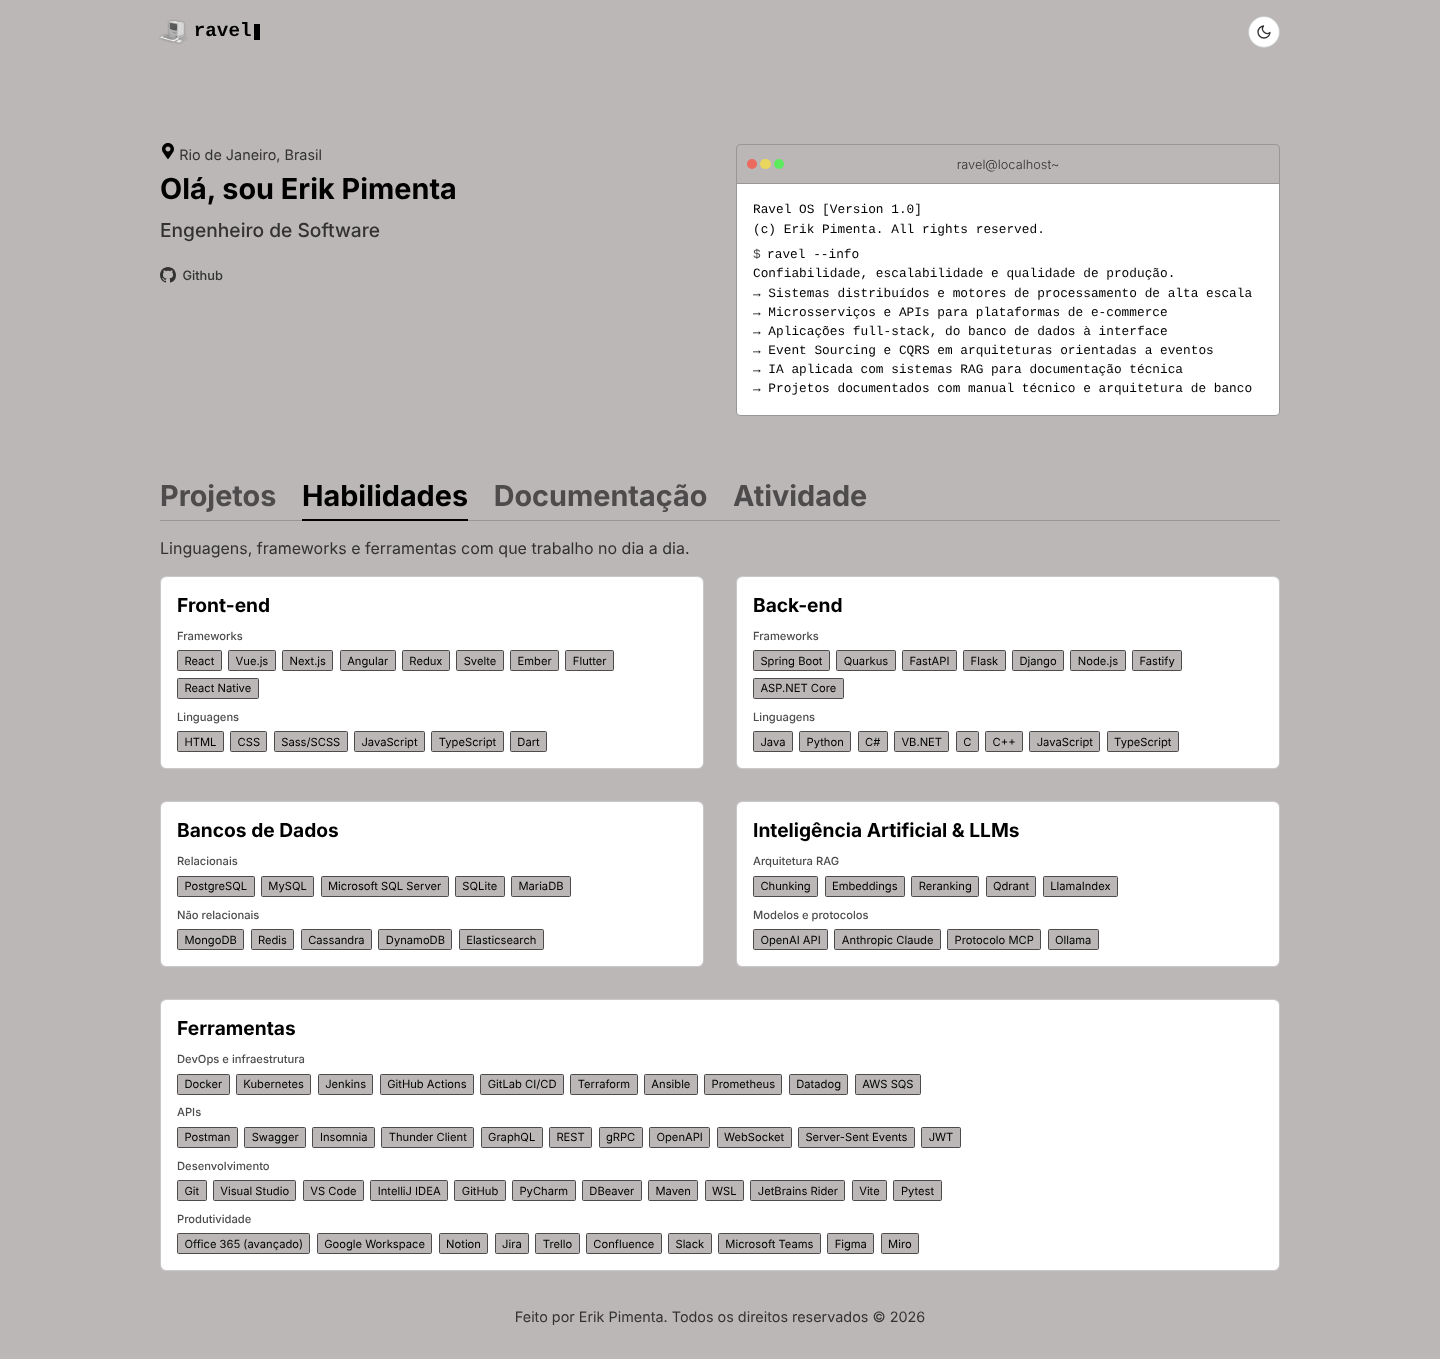
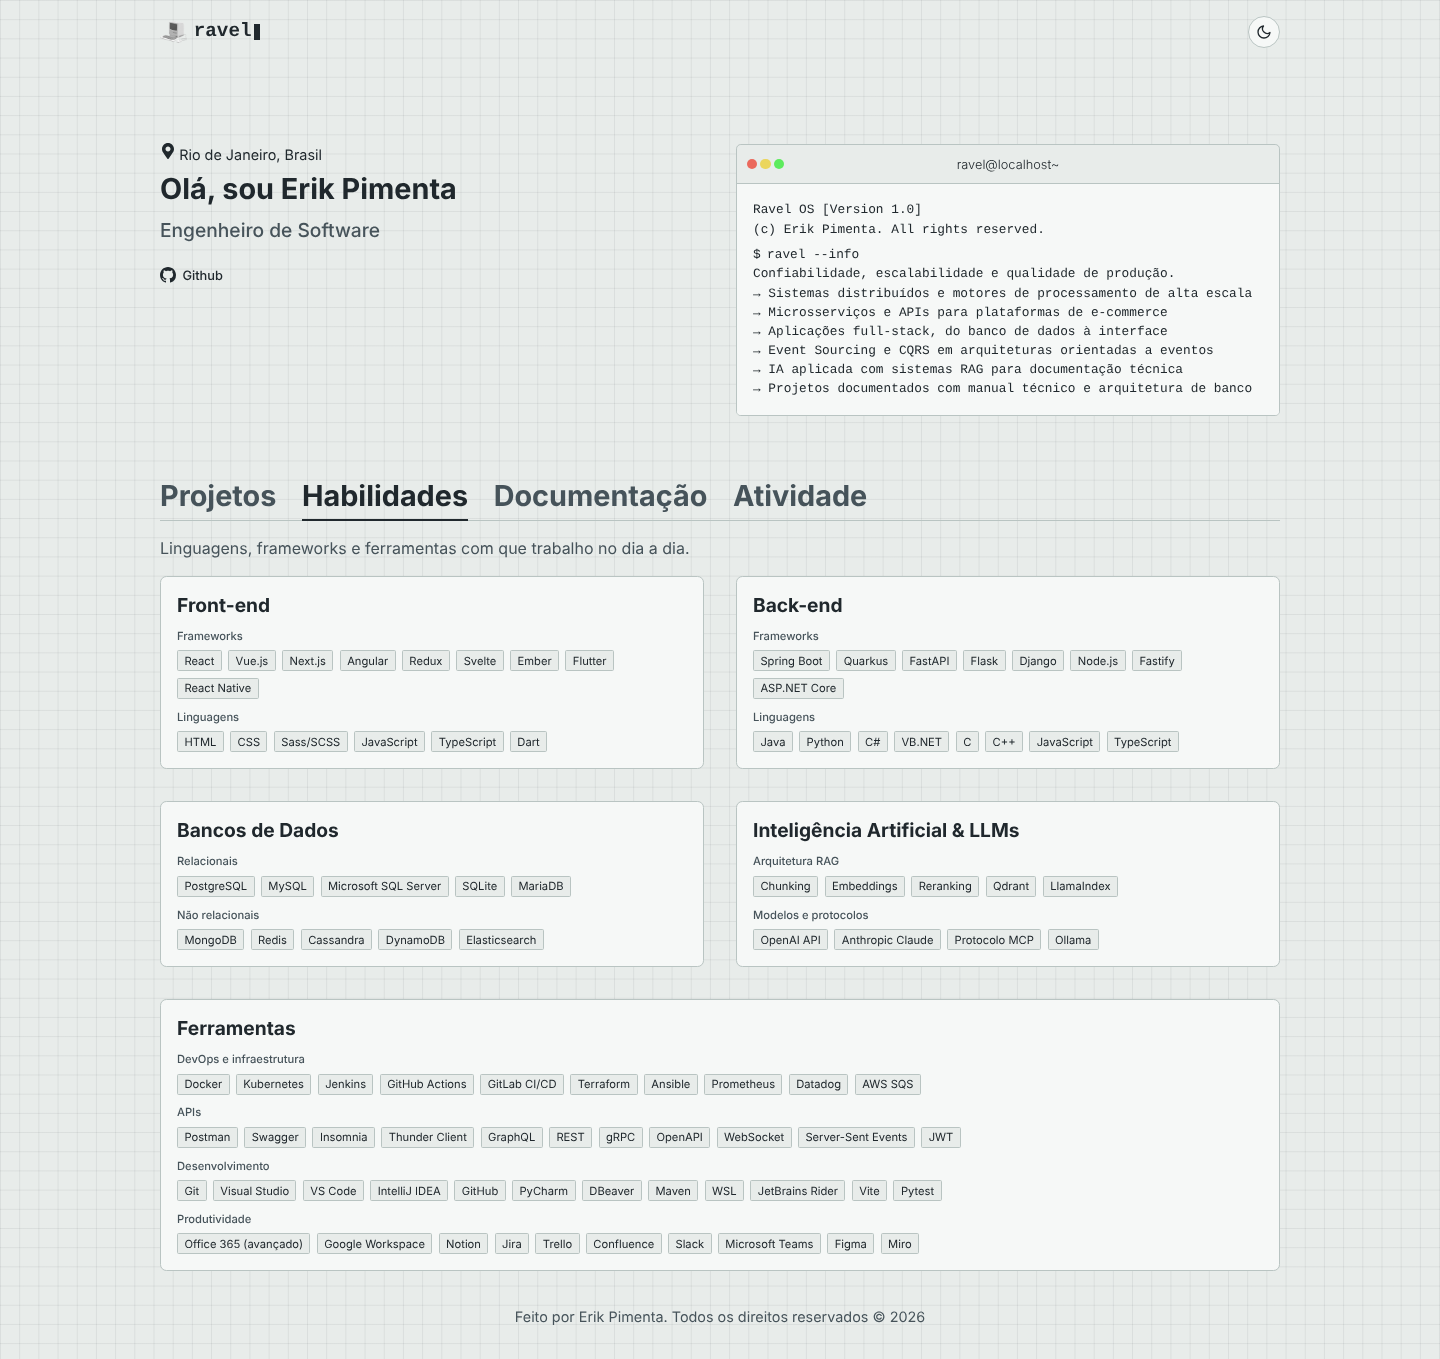
alteração em paleta de cores e correção das miniaturas

diff --git a/css/estilo.css b/css/estilo.css
@@ -32,45 +32,59 @@
 	--fonte-mono: ui-monospace, SFMono-Regular, Menlo, Monaco, Consolas, "Liberation Mono", "Courier New", monospace;
 }
 
-/* Tema claro: ativado pelo botão no canto superior direito */
+/* Tema claro: ativado pelo botão no canto superior direito
+   Papel de desenho técnico: folha com quadriculado de engenharia, texto em grafite
+   e destaques no mesmo grafite, como nos diagramas dos PDFs.
+   Paleta: Papel #E8ECEA · Folha #F6F8F7 · Linha #B9C4C2 · Ardósia #46535A · Grafite #20282D */
 :root[data-tema="claro"] {
 	color-scheme: light;
-	/* Paleta: #FFFFFF · #BAB7B6 · #4D4B4B · #333232 · #000000 */
-	--fundo: #bab7b6;
-	--texto: #000000;
-	--destaque: #000000;
-	--cinza-100: #000000;
-	--cinza-200: #000000;
-	--cinza-300: #333232;
-	--cinza-400: #4d4b4b;
-	--verde-400: #4d4b4b;
-	--borda: rgba(77, 75, 75, 0.3);
-	--cartao: #ffffff;
-	--terminal: #bab7b6;
-	--topo-rolado: rgba(186, 183, 182, 0.8);
-	--etiqueta-fundo: #bab7b6;
-	--etiqueta-borda: #4d4b4b;
-	--botao-fundo: #333232;
-	--botao-texto: #ffffff;
-	--botao-hover: #4d4b4b;
-	--filtro-icone: invert(1);
-	--filtro-marca: drop-shadow(0 0 0.0625rem rgba(0, 0, 0, 0.35));
-	--nivel-0: rgba(186, 183, 182, 0.3);
-	--nivel-1: #bab7b6;
-	--nivel-2: #838181;
-	--nivel-3: #4d4b4b;
-	--nivel-4: #000000;
-	--barra: #333232;
-	--barra-outras: #bab7b6;
-	--dica-sombra: 0 0.5rem 1.5rem rgba(0, 0, 0, 0.15);
+	--tinta: #20282d;
+	--fundo: #e8ecea;
+	--texto: #20282d;
+	--destaque: #20282d;
+	--cinza-100: #20282d;
+	--cinza-200: #20282d;
+	--cinza-300: #20282d;
+	--cinza-400: #46535a;
+	--verde-400: #20282d;
+	--borda: #b9c4c2;
+	--cartao: #f6f8f7;
+	--terminal: #e8ecea;
+	--topo-rolado: rgba(232, 236, 234, 0.85);
+	--etiqueta-fundo: #e8ecea;
+	--etiqueta-borda: #b9c4c2;
+	--botao-fundo: #20282d;
+	--botao-texto: #f6f8f7;
+	--botao-hover: #46535a;
+	--filtro-icone: brightness(0.16);
+	--filtro-marca: none;
+	/* Escala do gráfico: do papel ao grafite, passando por Linha e Ardósia */
+	--nivel-0: #dce3e1;
+	--nivel-1: #b9c4c2;
+	--nivel-2: #808c8e;
+	--nivel-3: #46535a;
+	--nivel-4: #20282d;
+	--barra: #20282d;
+	--barra-outras: #b9c4c2;
+	--dica-sombra: 0 0.5rem 1.5rem rgba(32, 40, 45, 0.12);
 }
 
-/* Textos secundários direto sobre o fundo #BAB7B6 usam #333232 para manter o contraste de leitura */
-:root[data-tema="claro"] .resumo,
-:root[data-tema="claro"] .secao-descricao,
-:root[data-tema="claro"] .atividade-rodape,
-:root[data-tema="claro"] .rodape p {
-	color: var(--cinza-300);
+/* Quadriculado de engenharia no fundo, em grafite bem fraco; os cartões ficam por cima */
+:root[data-tema="claro"] body {
+	background-image:
+		linear-gradient(rgba(32, 40, 45, 0.07) 1px, transparent 1px),
+		linear-gradient(90deg, rgba(32, 40, 45, 0.07) 1px, transparent 1px);
+	background-size: 1.5rem 1.5rem;
+}
+
+/* O grafite marca o que está ativo: aba aberta e cursor do título */
+:root[data-tema="claro"] .aba::after,
+:root[data-tema="claro"] .cursor {
+	background: var(--tinta);
+}
+
+:root[data-tema="claro"] .doc-diagrama {
+	opacity: 0.85;
 }
 
 *,
@@ -599,7 +613,7 @@ svg {
 	transition: background-color 0.3s;
 }
 
-.doc-miniatura img {
+.doc-diagrama {
 	display: block;
 	width: 100%;
 	height: 100%;
@@ -611,8 +625,8 @@ svg {
 	transition: opacity 0.15s;
 }
 
-.doc-miniatura:hover img,
-.doc-miniatura:focus-visible img {
+.doc-miniatura:hover .doc-diagrama,
+.doc-miniatura:focus-visible .doc-diagrama {
 	opacity: 1;
 }
 

diff --git a/js/main.js b/js/main.js
@@ -81,12 +81,14 @@ function montarDocumentacao() {
 		miniatura.target = "_blank";
 		miniatura.rel = "noopener noreferrer";
 		miniatura.setAttribute("aria-label", `Abrir ${doc.banco ? "a arquitetura do banco" : "o manual técnico"} do ${doc.titulo} (PDF)`);
-		const imagem = criar("img");
-		imagem.src = doc.miniatura;
-		imagem.alt = doc.miniaturaDescricao;
-		imagem.loading = "lazy";
-		imagem.decoding = "async";
-		miniatura.append(imagem);
+		// O diagrama é um PNG/SVG branco; no tema claro, o filtro do tema o deixa em grafite.
+		// (Imagem comum de propósito: máscaras CSS com url() não carregam ao abrir o index.html direto do arquivo.)
+		const diagrama = criar("img", "doc-diagrama");
+		diagrama.src = doc.miniatura;
+		diagrama.alt = doc.miniaturaDescricao;
+		diagrama.loading = "lazy";
+		diagrama.decoding = "async";
+		miniatura.append(diagrama);
 		cartao.append(miniatura);
 
 		const conteudo = criar("div", "cartao-conteudo");

diff --git a/index.html b/index.html
@@ -17,7 +17,7 @@
 			if (localStorage.getItem("tema") === "claro") document.documentElement.dataset.tema = "claro";
 		} catch (erro) {}
 	</script>
-	<link rel="stylesheet" href="css/estilo.css?v=10">
+	<link rel="stylesheet" href="css/estilo.css?v=19">
 </head>
 <body>
 	<div id="pagina" class="pagina">
@@ -130,6 +130,6 @@
 	<script src="js/habilidades.js?v=4"></script>
 	<script src="js/documentacao.js?v=1"></script>
 	<script src="js/atividade.js?v=4"></script>
-	<script src="js/main.js?v=6"></script>
+	<script src="js/main.js?v=8"></script>
 </body>
 </html>

diff --git a/README.md b/README.md
@@ -26,7 +26,7 @@ HTML5 · CSS3 · JavaScript (ES6+) · API do GitHub · Responsivo · Zero depend
 <p align="center"><b>Tema claro, na aba Habilidades</b></p>
 
 <p align="center">
-  <img src="assets/preview-portfolio-claro.png?v=12" alt="Prévia do portfólio no tema claro, na aba Habilidades">
+  <img src="assets/preview-portfolio-claro.png?v=20" alt="Prévia do portfólio no tema claro, na aba Habilidades">
 </p>
 
 <p align="center"><b>Aba Documentação</b></p>
@@ -44,13 +44,13 @@ HTML5 · CSS3 · JavaScript (ES6+) · API do GitHub · Responsivo · Zero depend
 ## O que tem na página
 
 - **Topo fixo** com o ícone de computador e o nome **ravel** digitado letra por letra e cursor piscando, que ganha fundo desfocado ao rolar a página.
-- **Tema claro e escuro**: o botão redondo no canto superior direito (☀ sol / ☾ lua) troca a página entre o tema escuro (padrão) e o claro, que usa a paleta em tons de cinza `#FFFFFF` (cartões, corpo do terminal e texto dos botões), `#BAB7B6` (fundo, etiquetas, barra do terminal e fundo das miniaturas), `#4D4B4B` (contorno das etiquetas, prompt do terminal e textos de apoio), `#333232` (botões, barras de linguagens e textos sobre o fundo) e `#000000` (títulos e textos). O gráfico de contribuições vai do `#BAB7B6` ao `#000000`. A escolha fica salva no navegador e volta na próxima visita, sem piscar o tema errado ao carregar.
+- **Tema claro e escuro**: o botão redondo no canto superior direito (☀ sol / ☾ lua) troca a página entre o tema escuro (padrão) e o claro, inspirado em **desenho técnico de engenharia**: fundo de papel com quadriculado bem fraco, texto e destaques em grafite, a mesma linguagem dos diagramas dos PDFs. A paleta é Papel `#E8ECEA` (fundo, etiquetas e barra do terminal), Folha `#F6F8F7` (cartões e corpo do terminal), Linha `#B9C4C2` (bordas), Ardósia `#46535A` (textos de apoio, abas fechadas e botões ao passar o mouse) e Grafite `#20282D` (títulos, textos, botões, aba aberta, cursor do título, prompt do terminal, quadriculado, traço dos diagramas na aba Documentação e barras de linguagens). O gráfico de contribuições vai do papel ao grafite, passando por Linha e Ardósia. Os três botões coloridos do terminal continuam como no tema escuro. A escolha fica salva no navegador e volta na próxima visita, sem piscar o tema errado ao carregar.
 - **Apresentação** com localização, resumo e link discreto para o GitHub, alinhada ao topo do terminal.
 - **Terminal `ravel@localhost~`** com o `ravel --info` do Ravel OS: o que priorizo e as áreas em que atuo, com base nos meus projetos.
 - **Quatro abas: Projetos, Habilidades, Documentação e Atividade**: as seções ficam em abas separadas na mesma página, com sublinhado animado na aba ativa. Dá para trocar com o mouse ou pelas setas do teclado, e a última aba aberta fica salva no navegador. No celular, a fileira de abas rola para o lado e a aba ativa sempre fica à vista.
   - **Projetos** em cartões com o ícone de cada projeto antes do nome, descrição, etiquetas de tecnologias e link para cada repositório.
   - **Habilidades** organizadas por área (Front-end, Back-end, Bancos de Dados, IA & LLMs e Ferramentas), em cartões com etiquetas agrupadas. IA & LLMs se divide em Arquitetura RAG e Modelos e protocolos; Ferramentas, em DevOps e infraestrutura, APIs, Desenvolvimento e Produtividade.
-  - **Documentação**: um cartão por projeto com a miniatura do diagrama do banco (tirada do próprio PDF, em traço branco que vira preto no tema claro), a decisão de arquitetura que mais pesou, etiquetas com os números principais e botões que abrem o **Manual técnico** e a **Arquitetura do BD** em PDF no GitHub. A miniatura também abre o PDF. O Pyhoma, que ainda não tem o PDF do banco, mostra um esquema da arquitetura hexagonal.
+  - **Documentação**: um cartão por projeto com a miniatura do diagrama do banco (tirada do próprio PDF, em traço branco no tema escuro e grafite no claro), a decisão de arquitetura que mais pesou, etiquetas com os números principais e botões que abrem o **Manual técnico** e a **Arquitetura do BD** em PDF no GitHub. A miniatura também abre o PDF. O Pyhoma, que ainda não tem o PDF do banco, mostra um esquema da arquitetura hexagonal.
   - **Atividade**: dados ao vivo do GitHub, buscados só quando a aba é aberta. Mostra as contribuições dos últimos 12 meses, sequência atual e maior sequência de dias com commits, número de repositórios públicos, o **gráfico de contribuições** dos últimos 12 meses (o mesmo calendário do perfil, em tons neutros que acompanham o tema). A janela anda junto com o tempo e atravessa a virada de ano: por isso o primeiro mês e cada janeiro mostram o ano, e a nota abaixo do gráfico diz o período exato. A partir de **1º de janeiro de 2027**, o cartão ganha sozinho os botões **12 meses · 2027 · 2026** para ver cada ano inteiro (um botão novo aparece a cada virada de ano); no ano em andamento, os dias que ainda não chegaram aparecem vazados, as **linguagens mais usadas** pela soma do código de todos os repositórios e os **repositórios que receberam commits por último**, com o ícone do projeto quando ele está no portfólio. Passar o mouse sobre um dia ou uma linguagem mostra os detalhes.
 - **Layout responsivo**: duas colunas no computador, uma no celular, sem rolagem lateral.
 - **Acessível a quem prefere menos movimento**: com `prefers-reduced-motion`, as animações são desligadas.
